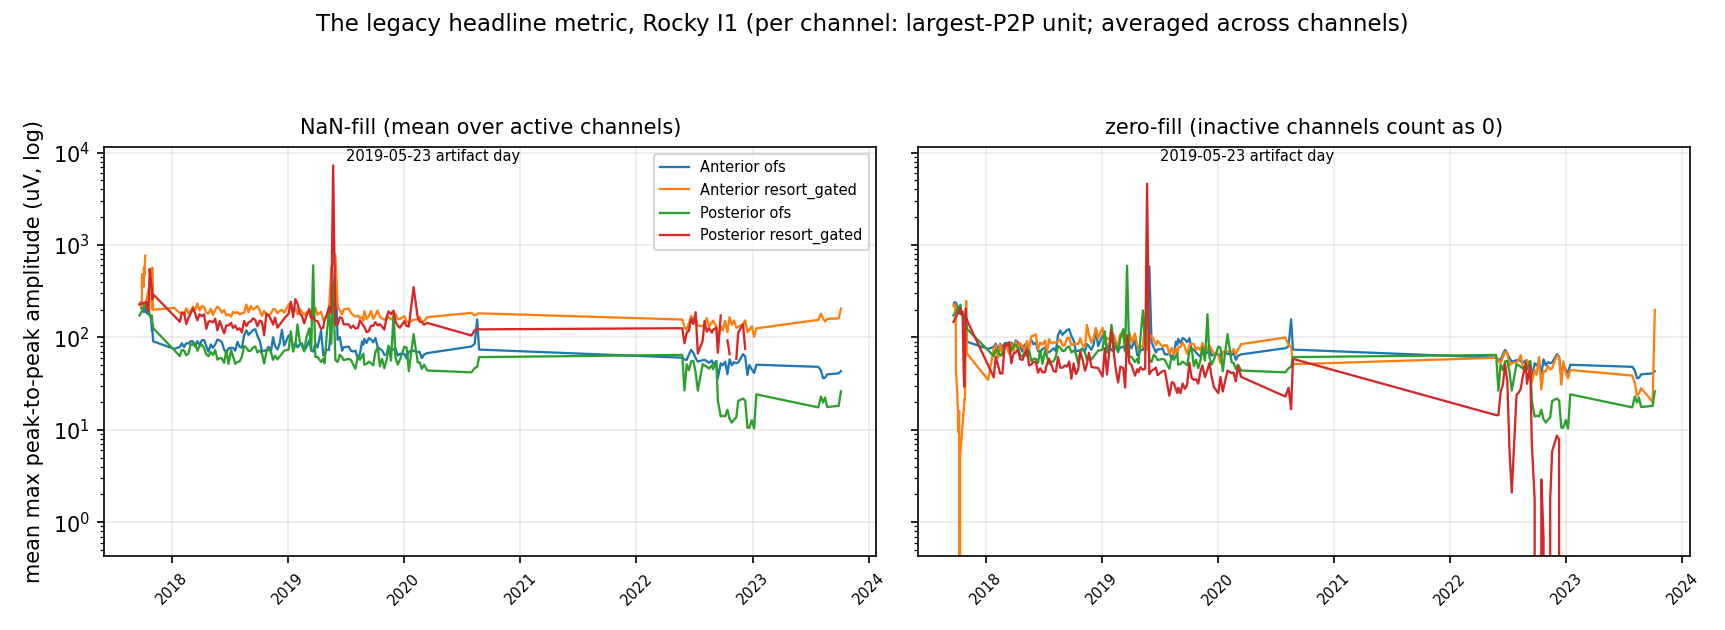
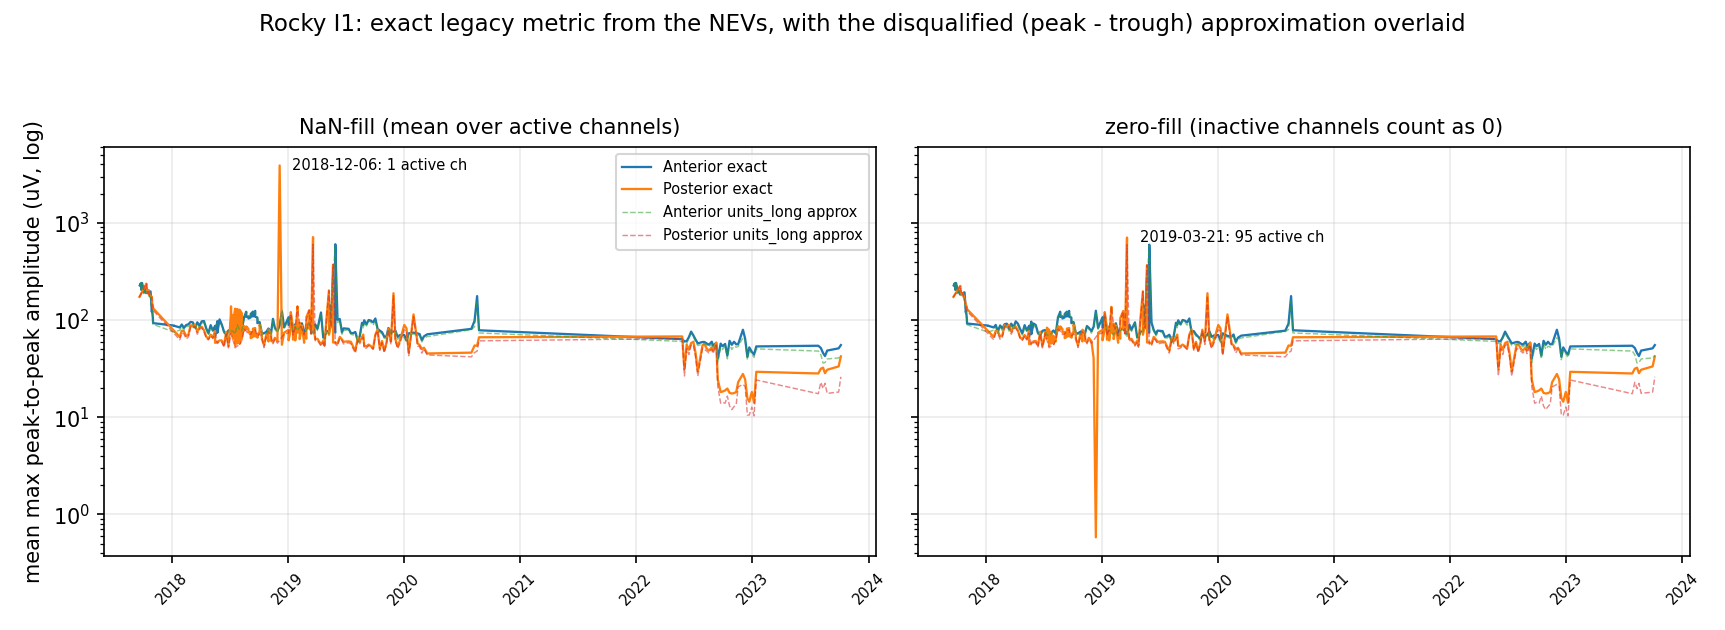
Exact mean-max-P2P for the whole cohort; canonical-NEV rule (R-015, I-004)
708 Blackrock sessions from the sorted NEVs (Rocky I1+I2, Nigel, Fisk),
cross-checked against all nine provenance stores at per-channel
max|diff| = 0. The one initial disagreement exposed I-004: stem-based
resolvers could land on test-vintage or unsorted NEV copies - fixed by
noncanonical_nev_score + Fisk prefix matching + empirical has_ofs; the
affected shard and three stores were redone from canonical sorted files
(all published validation numbers unchanged; Fisk stores gain their true
Plexon layer). Aggregate keeps zero-unit sessions (Fisk 2024-05-31).
Cohort figure implant-resolved; peaks annotated by active-channel count
(NaN-fill peak = 2018-12-06 Posterior, one channel, one 3.9 mV unit).

diff --git a/notebooks/scratch_provenance_dump.py b/notebooks/scratch_provenance_dump.py
@@ -139,7 +139,26 @@ def nev_path_for(stem: str, implant: str,
         hit = ix[(ix.kind == "OFS") & (ix.stem.astype(str) == stem + "-01")]
         if len(hit) and Path(hit.path.iloc[0]).exists():
             return Path(hit.path.iloc[0]), True
-    from scratch_ns5_resort import INV, build_worklist
+    from scratch_ns5_resort import (INV, MONKEY_ROOT, build_worklist,
+                                    noncanonical_nev_score)
+    inv = pd.read_parquet(INV)
+    sn = inv[(inv.role == "snippets") & (inv.chain == "-01")
+             & (inv.stem.astype(str) == stem)]
+    if not len(sn) and stem[:8].isdigit() and stem[8:9] == "-":
+        # Fisk region-token stems (20230605-132052-Lateral) vs the
+        # inventory's run-numbered stems (20230605-132052-001): match on
+        # the YYYYMMDD-HHMMSS prefix so the SORTED export is found - the
+        # ns5-worklist fallback below lands on the unsorted Recordings NEV
+        sn = inv[(inv.role == "snippets") & (inv.chain == "-01")
+                 & inv.stem.astype(str).str.startswith(stem[:15])]
+    # duplicate sorted copies of one session exist (test/curated folders,
+    # same events, different labels) - take the most canonical (I-004)
+    for r in sorted(sn.itertuples(),
+                    key=lambda r: noncanonical_nev_score(r.rel)):
+        p = getattr(r, "path", None)
+        nev = Path(p) if isinstance(p, str) and p else MONKEY_ROOT / r.rel
+        if nev.exists():
+            return nev, True
     for j in build_worklist(pd.read_parquet(INV)):
         if j["stem"] == stem and j.get("nev") and Path(j["nev"]).exists():
             return Path(j["nev"]), True          # worklist nevs are -01
@@ -154,14 +173,15 @@ def nev_path_for(stem: str, implant: str,
 # === Layers A-D: snippet estate ==========================================
 def dump_snippet_layers(sess: dict, out: Path) -> None:
     """Events + waveforms, seeded five-method subsample, full ISO-SPLIT, ofs."""
-    nev, has_ofs = nev_path_for(sess["stem"], sess["implant"],
-                                sess.get("subject", "Rocky"))
+    nev, _claimed_ofs = nev_path_for(sess["stem"], sess["implant"],
+                                     sess.get("subject", "Rocky"))
     raw, nmeta, chan_by_elec = open_nev(nev)
     sr, nbefore, dur = nmeta["sr"], nmeta["nbefore"], nmeta["duration_s"]
 
     ev_rows, wf_all, elec_rows = [], [], []
     sub_rows, unit_m_rows, unit_f_rows = [], [], []
     offset = 0
+    saw_ofs = False       # empirical: any non-0/255 Plexon label observed
 
     for elec in sorted(chan_by_elec):
         e = read_electrode(raw, nmeta, chan_by_elec[elec])
@@ -197,15 +217,15 @@ def dump_snippet_layers(sess: dict, out: Path) -> None:
                              noise, sr, nbefore, dur)
             unit_f_rows.append({**r, "method": "isosplit_full",
                                 "channel_id": int(elec), "unit_id": int(k)})
-        if has_ofs:
-            for u in np.unique(pu):
-                if u in PLEXON_DROP_UNITS:
-                    continue
-                sel = pu == u
-                r = unit_metrics(wf[sel], t[sel], noise, sr, nbefore, dur)
-                unit_f_rows.append({**r, "method": "ofs",
-                                    "channel_id": int(elec),
-                                    "unit_id": int(u)})
+        saw_ofs = saw_ofs or bool((~np.isin(pu, PLEXON_DROP_UNITS)).any())
+        for u in np.unique(pu):
+            if u in PLEXON_DROP_UNITS:
+                continue
+            sel = pu == u
+            r = unit_metrics(wf[sel], t[sel], noise, sr, nbefore, dur)
+            unit_f_rows.append({**r, "method": "ofs",
+                                "channel_id": int(elec),
+                                "unit_id": int(u)})
 
         # the seeded subsample the five methods actually saw
         if n > CLUSTER_SUBSAMPLE:
@@ -230,17 +250,16 @@ def dump_snippet_layers(sess: dict, out: Path) -> None:
                                     "channel_id": int(elec), "unit_id": int(k),
                                     "n_spikes_electrode": len(idx)})
         # Plexon scored on the same subsample, as in the methods table
-        if has_ofs:
-            for u in np.unique(pu_s):
-                if u in PLEXON_DROP_UNITS or (pu_s == u).sum() < 3:
-                    continue
-                lab_ofs = np.where(pu_s == u, 1, 0)
-                r = build_row(wf_s, t_s, feats, lab_ofs, 1,
-                              noise, sr, nbefore, dur)
-                unit_m_rows.append({**r, "method": "ofs",
-                                    "channel_id": int(elec),
-                                    "unit_id": int(u),
-                                    "n_spikes_electrode": len(idx)})
+        for u in np.unique(pu_s):
+            if u in PLEXON_DROP_UNITS or (pu_s == u).sum() < 3:
+                continue
+            lab_ofs = np.where(pu_s == u, 1, 0)
+            r = build_row(wf_s, t_s, feats, lab_ofs, 1,
+                          noise, sr, nbefore, dur)
+            unit_m_rows.append({**r, "method": "ofs",
+                                "channel_id": int(elec),
+                                "unit_id": int(u),
+                                "n_spikes_electrode": len(idx)})
         sub_rows.append(sub)
         offset += n
 
@@ -279,7 +298,10 @@ def dump_snippet_layers(sess: dict, out: Path) -> None:
     json.dump(dict(
         stem=sess["stem"], subject=sess.get("subject", "Rocky"),
         date=sess["date"], array=sess["array"],
-        implant=sess["implant"], nev=str(nev), has_ofs=bool(has_ofs),
+        # has_ofs is what the FILE showed, not what the resolver claimed:
+        # the ns5-worklist fallback asserted True for Fisk's unsorted
+        # Recordings NEVs (I-004 follow-up)
+        implant=sess["implant"], nev=str(nev), has_ofs=bool(saw_ofs),
         sr=sr, nbefore=int(nbefore),
         duration_s=dur, n_events=int(len(ev)),
         gate=dict(MIN_SPIKES=MIN_SPIKES, MIN_SNR=MIN_SNR,

diff --git a/notebooks/scratch_mean_max_p2p_pass.py b/notebooks/scratch_mean_max_p2p_pass.py
@@ -58,9 +58,12 @@ def worklist() -> list[dict]:
     Nigel and Fisk from the inventory's snippets/-01 rows, resolved the same
     way the ns5 resort resolves them.
     """
-    from scratch_ns5_resort import INV, MONKEY_ROOT
+    from scratch_ns5_resort import INV, MONKEY_ROOT, noncanonical_nev_score
 
     jobs: dict[tuple[str, str], dict] = {}
+    # rank of the nev the current job holds; session_index picks are
+    # canonical by construction (rank 0, never displaced)
+    rank: dict[tuple[str, str], int] = {}
 
     ix = pd.read_parquet(DER / "rocky" / "session_index.parquet")
     for r in ix[ix.kind == "OFS"].itertuples():
@@ -68,6 +71,7 @@ def worklist() -> list[dict]:
         jobs[("Rocky", stem)] = dict(
             subject="Rocky", stem=stem, array=str(r.array),
             date=str(pd.Timestamp(r.date).date()), nev=str(r.path))
+        rank[("Rocky", stem)] = 0
 
     inv = pd.read_parquet(INV)
     sn = inv[(inv.role == "snippets") & (inv.chain == "-01")]
@@ -78,13 +82,16 @@ def worklist() -> list[dict]:
         nev = Path(p) if isinstance(p, str) and p else MONKEY_ROOT / r.rel
         stem = str(r.stem)
         key = (str(r.subject), stem)
-        if key in jobs:
+        # duplicate sorted copies: keep the most canonical one (I-004)
+        sc = noncanonical_nev_score(r.rel)
+        if key in jobs and sc >= rank[key]:
             continue
         date = getattr(r, "date", None)
         jobs[key] = dict(
             subject=str(r.subject), stem=stem, array=str(r.array),
             date=str(pd.Timestamp(date).date()) if pd.notna(date) else "",
             nev=str(nev))
+        rank[key] = sc
     out = [j for j in jobs.values() if Path(j["nev"]).exists()]
     skipped = len(jobs) - len(out)
     print(f"  worklist: {len(out)} reachable sessions "
@@ -137,16 +144,23 @@ def main() -> int:
                   f"active={len(ch)}", flush=True)
 
     banner("aggregate")
-    parts = [pd.read_parquet(p) for p in sorted(SHARDS.glob("*.parquet"))]
-    allch = pd.concat(parts, ignore_index=True)
+    # walk the worklist, not the shard contents: an all-dead session writes
+    # an empty shard and must still appear (NaN / 0), or death trajectories
+    # lose their endpoint
     rows = []
-    for (sub, stem), g in allch.groupby(["subject", "stem"], observed=True):
+    for j in jobs:
+        shard = SHARDS / f"{j['subject']}__{j['stem']}.parquet"
+        if not shard.exists():
+            continue
+        g = pd.read_parquet(shard)
         rows.append(dict(
-            subject=sub, stem=stem, array=g["array"].iloc[0],
-            date=g["date"].iloc[0],
-            max_p2p_mean_nan=float(g.max_p2p_uv.mean()),
-            max_p2p_mean_zero=float(g.max_p2p_uv.sum() / N_CH),
-            n_active=int(len(g)), n_units=int(g.n_units.sum())))
+            subject=j["subject"], stem=j["stem"], array=j["array"],
+            date=j["date"],
+            max_p2p_mean_nan=float(g.max_p2p_uv.mean()) if len(g) else np.nan,
+            max_p2p_mean_zero=float(g.max_p2p_uv.sum() / N_CH) if len(g)
+            else 0.0,
+            n_active=int(len(g)),
+            n_units=int(g.n_units.sum()) if len(g) else 0))
     out = pd.DataFrame(rows)
     out.to_parquet(OUT, index=False)
     print(out.groupby("subject").agg(

diff --git a/notebooks/scratch_mean_max_p2p_figs.py b/notebooks/scratch_mean_max_p2p_figs.py
@@ -98,6 +98,13 @@ def crosscheck_stores(t: pd.DataFrame) -> None:
         subject = "Rocky" if store.name.startswith("Rocky") else (
             "Nigel" if store.name.startswith("Nigel") else "Fisk")
         shard_path = SHARDS / f"{subject}__{store.name}.parquet"
+        if not shard_path.exists() and subject == "Fisk":
+            # Fisk stores carry region-token stems (20230605-132052-Lateral)
+            # while the inventory stems are run-numbered (...-001): match
+            # on the YYYYMMDD-HHMMSS prefix
+            hits = sorted(SHARDS.glob(f"Fisk__{store.name[:15]}-*.parquet"))
+            if len(hits) == 1:
+                shard_path = hits[0]
         if not shard_path.exists():
             print(f"  {store.name}: no shard (not in worklist)")
             continue
@@ -149,10 +156,10 @@ def fig_cohort(t: pd.DataFrame) -> None:
         # the cohort max is real data, not an outlier to clip
         peak = g_sub.loc[g_sub.max_p2p_mean_nan.idxmax()] if len(g_sub) else None
         if peak is not None and peak.max_p2p_mean_nan > 2000:
-            axes[0, j].annotate(f"{peak.date.date()} artifact day",
-                                (peak.date, peak.max_p2p_mean_nan),
-                                fontsize=7, textcoords="offset points",
-                                xytext=(6, -2))
+            axes[0, j].annotate(
+                f"{peak.date.date()}: {int(peak.n_active)} active ch",
+                (peak.date, peak.max_p2p_mean_nan), fontsize=7,
+                textcoords="offset points", xytext=(6, -2))
     fig.suptitle("Mean max peak-to-peak amplitude - the legacy headline "
                  "metric, exact from the sorted NEVs (Plexon units)",
                  fontsize=12)
@@ -188,8 +195,12 @@ def fig_rocky_exact(t: pd.DataFrame) -> None:
         ax.grid(alpha=0.25)
         ax.set_title(ttl, fontsize=10)
         ax.tick_params(axis="x", labelrotation=45, labelsize=7)
+        # the Plexon-layer peak is 2018-12-06 Posterior (a single active
+        # channel holding one 3.9 mV unit), not the resort layer's
+        # 2019-05-23 railed day - label whatever the data says
         peak = ex.loc[ex[col].idxmax()]
-        ax.annotate("2019-05-23 artifact day", (peak.date, peak[col]),
+        ax.annotate(f"{peak.date.date()}: {int(peak.n_active)} active ch",
+                    (peak.date, peak[col]),
                     fontsize=7, textcoords="offset points", xytext=(6, -2))
     axes[0].set_ylabel("mean max peak-to-peak amplitude (uV, log)")
     axes[0].legend(fontsize=7)

diff --git a/notebooks/scratch_ns5_resort.py b/notebooks/scratch_ns5_resort.py
@@ -83,6 +83,19 @@ OUT_DIR = REPO / "data" / "derived" / "ns5"
 SHARD_DIR = OUT_DIR / "shards"
 SUMMARY_OUT = OUT_DIR / "ns5_sorters.parquet"
 
+# Duplicate sorted copies of the same session exist under algorithm-test
+# and curation folders (same events, different Plexon labels; nav I-004:
+# Nigel "OFS sorting test2023\Scan*", "Curated", Fisk "DS vs Sidd").
+# Anything resolving a snippet NEV by stem must rank these BEHIND the
+# production sorted file or the unit layer silently picks a test vintage.
+NONCANONICAL_NEV_TOKENS = ("ofs sorting test", "curated", "ds vs sidd")
+
+
+def noncanonical_nev_score(rel: str | Path) -> int:
+    """0 for a production sorted NEV; higher for test/curated copies."""
+    r = str(rel).lower()
+    return sum(tok in r for tok in NONCANONICAL_NEV_TOKENS)
+
 # Sorter scratch, on the recording's own drive.
 #
 # **The original reason for this was wrong and is recorded here so it is not

diff --git a/nav/entries/I-004-duplicate-sorted-copies.md b/nav/entries/I-004-duplicate-sorted-copies.md
@@ -1,0 +1,44 @@
+---
+id: I-004
+type: issue
+status: resolved
+title: Duplicate sorted NEV copies let stem lookups pick a test-vintage sort
+created: 2026-09-14
+actor: agent
+basis: recorded
+parent: P-03
+informs: [R-013, W-017, REF-002]
+source: [notebooks/scratch_ns5_resort.py, notebooks/scratch_mean_max_p2p_pass.py, notebooks/scratch_provenance_dump.py]
+---
+Surfaced by the W-017 cross-check (pass shards vs provenance stores):
+Nigel_Anterior_2023-03-24 disagreed by up to 37.8 uV per channel while
+every other overlapping session matched at 0.
+
+Cause: the same session's sorted NEV exists in multiple copies with
+identical events but different Plexon labels - Nigel's
+"OFS sorting test2023\Scan*/TDIST*" algorithm-comparison folders (7-8
+copies per session) and "Curated" exports, Fisk's "DS vs Sidd" curation
+folders. Any resolver that takes the first inventory row per stem can
+silently land on a test vintage. Measured blast radius: the provenance
+dump built the Nigel_Anterior_2023-03-24 store from TDIST-EM-3D-PSF, and
+the mean-max-P2P pass resolved exactly 1 of 708 stems
+(Nigel_Anterior_2023-01-24) to ScanEM-J3; all other picks were canonical.
+
+Second facet, same root (stem-based NEV resolution): the dump's
+ns5-worklist fallback resolved Fisk's region-token stems
+(20230605-132052-Lateral) to the UNSORTED Recordings NEV and asserted
+has_ofs=True - both Fisk stores were built without any Plexon layer
+while claiming one (their "53/165 units" were isosplit-only). The
+sorted exports live under Fisk\SN<serial>\Sorted\Exported with
+run-numbered stems (...-001-01.nev).
+
+Fix: `noncanonical_nev_score()` in scratch_ns5_resort.py ranks paths
+containing "OFS sorting test" / "Curated" / "DS vs Sidd" behind the
+production sorted file; the pass worklist and the dump's nev_path_for
+select by that score; nev_path_for additionally matches Fisk region
+stems to inventory stems by YYYYMMDD-HHMMSS prefix; and meta.json
+has_ofs is now what the file's labels showed, never what the resolver
+claimed. Recomputed from canonical files: the 2023-01-24 shard, the
+Nigel 2023-03-24 store (isosplit layer unchanged - R-013 numbers stand;
+ofs layer now the production sort), and both Fisk stores (redumped with
+their true Plexon layer, revalidated).

diff --git a/docs/notes/longitudinal_metrics.md b/docs/notes/longitudinal_metrics.md
@@ -91,13 +91,30 @@ and `scratch_mean_max_p2p_pass.py` (exact, from the sorted NEVs, whole
 Blackrock cohort) → `cohort/mean_max_p2p*.parquet`,
 `figures/rocky/16_mean_max_p2p.png`.
 
+The exact pass covers **708 sessions** (Rocky I1 405, Rocky I2 20 within
+those, Nigel 158, Fisk 145; per-channel audit grain in
+`cohort/mmp2p_shards/`). NaN-fill medians: Rocky I1 Ant 81.2 / Post 65.2,
+I2 127.9 / 112.6; Nigel Ant 78.8 / Post 62.7; Fisk SN1498 92.3 / SN1504
+109.3 µV. Cross-checked against the provenance stores at max|diff| = 0
+per channel; the one 37.8 µV disagreement exposed duplicate sorted NEV
+copies (test/curated folders) and became the I-004 preference rule.
+Figures: `figures/cohort/mean_max_p2p.png`, `figures/rocky/16_*.png`
+(exact, with the disqualified approximation overlaid).
+
 Two measured caveats. **(1) (peak − trough) is not this metric**: exact on
 only 26.5% of units, under-reading to −29% where a pre-trough bump is the
 true maximum (`cohort/mean_max_p2p_exactness.parquet`) — the per-channel
 max amplifies exactly those tails, so the default table is the exact pass.
-**(2) The metric is artifact-sensitive by construction**: 2019-05-23
-Posterior is an array-wide ~13 mV railed-artifact day and dominates any
-linear axis; the figure is log-scaled and annotated rather than clipped.
+**(2) The metric is artifact-sensitive by construction, and the two fill
+variants disagree exactly when it matters**: the Plexon-layer peak is
+2018-12-06 Posterior — **one** active channel holding a single 3.9 mV
+sorted unit, so NaN-fill reads 3901 µV while zero-fill reads 40.6 µV.
+(The resort layer's peak is the different 2019-05-23 ~13 mV railed day —
+on that date the Plexon layer shows only moderately elevated Analog-pair
+sessions, 276/371 µV, with the Digital pair normal.) Figures are
+log-scaled with the peak annotated by its active-channel count, never
+clipped. A Fisk 2024-05-31 session has zero sorted units and appears as
+NaN-fill NaN / zero-fill 0.
 **TDT era, verified 2026-09-14 (nav R-014).** In
 `monkey_units_compiled.mat`, `unitsum.maxsigM` is structurally the same
 metric: per channel the max over sorted units of the per-unit amplitude

diff --git a/nav/entries/R-015-mean-max-p2p-cohort.md b/nav/entries/R-015-mean-max-p2p-cohort.md
@@ -1,0 +1,38 @@
+---
+id: R-015
+type: result
+status: current
+title: Exact mean-max-P2P computed for the whole cohort; both eras tabled as a default metric
+created: 2026-09-14
+actor: agent
+basis: recorded
+parent: P-03
+resolves: [W-017]
+informs: [D-013, R-014]
+evidence: [I-004]
+source: [notebooks/scratch_mean_max_p2p_pass.py, notebooks/scratch_mean_max_p2p_figs.py, notebooks/scratch_maxsig_tdt.py, docs/notes/longitudinal_metrics.md]
+---
+The legacy headline metric (D-013: per channel the max-P2P unit, plain
+mean waveform, global range; per session the NaN-fill and zero-fill
+means) is now a computed default for every monkey.
+
+- **Blackrock, exact from the sorted NEVs**: 708 sessions
+  (cohort/mean_max_p2p.parquet; per-channel audit grain in
+  mmp2p_shards/). NaN-fill medians: Rocky I1 Ant 81.2 / Post 65.2, I2
+  Ant 127.9 / Post 112.6; Nigel Ant 78.8 / Post 62.7; Fisk SN1498 92.3 /
+  SN1504 109.3 uV. Cross-checked against all nine provenance stores at
+  per-channel max|diff| = 0 (the one initial disagreement became I-004).
+- **TDT era**: 241 sessions from monkey_units_compiled.mat via the
+  verified maxsigM identity (R-014), definition="tdt_sig".
+- Figures: cohort/mean_max_p2p.png (2x3, implant-resolved per the
+  serial-resolution rule), rocky/16_mean_max_p2p.png (exact vs the
+  disqualified approximation).
+
+What the metric shows at a glance: the two fill variants disagree
+exactly on collapsed arrays - the NaN-fill peak is 2018-12-06 Rocky
+Posterior, ONE active channel holding a single 3.9 mV unit (NaN 3901 vs
+zero 40.6 uV); Nigel Posterior's death plunge and Fisk's weak 2024
+stretch (incl. a zero-unit 2024-05-31 session) are all visible.
+Amplitude ordering across arrays is not survival ordering: dying arrays
+can carry a HIGHER mean-max-P2P late (few surviving channels with big
+units dominate the NaN-fill mean).

diff --git a/nav/entries/R-013-nigel-fisk-chain-validated.md b/nav/entries/R-013-nigel-fisk-chain-validated.md
@@ -30,3 +30,11 @@ events_electrode tables.
 One cosmetic MATLAB warning (legend with zero gated units on the Nigel
 Posterior P1 figure); figures written under
 figures/matlab_repro/provenance/<stem>/.
+
+Refined same day (I-004): the initial Nigel Anterior dump had used a
+test-vintage sorted copy and the Fisk dumps the unsorted Recordings
+NEVs. All three stores were redumped from the canonical sorted files
+and revalidated - every number above is unchanged (the isosplit layer
+is label-independent and the event sets are identical); the Fisk
+stores additionally gained their true Plexon ofs layer (Lateral 55,
+Medial3Min 174 ofs units in units_full).

diff --git a/nav/entries/W-017-mean-max-p2p.md b/nav/entries/W-017-mean-max-p2p.md
@@ -1,7 +1,7 @@
 ---
 id: W-017
 type: work
-status: active
+status: done
 title: Compute mean-max-P2P longitudinally for the cohort (Rocky first)
 created: 2026-09-13
 actor: agent
